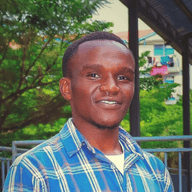
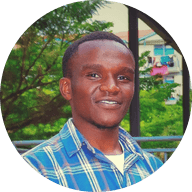
Refactor: Remove target _blank and rel noopener from links
Update: Generate circular favicons with alpha mask

diff --git a/client/src/components/navigation.tsx b/client/src/components/navigation.tsx
@@ -70,8 +70,6 @@ export default function Navigation() {
               ))}
               <motion.a
                 href="https://wa.me/254115594826?text=Hello%20Kennedy,%20I'm%20interested%20in%20discussing%20a%20potential%20project%20opportunity."
-                target="_blank"
-                rel="noopener noreferrer"
                 className="bg-gradient-to-r from-blue-600 to-cyan-500 text-white px-4 py-2 rounded-lg text-sm font-medium hover:from-blue-700 hover:to-cyan-600 transition-all duration-300 transform hover:scale-105 hover:shadow-lg hover:shadow-blue-500/30"
                 whileHover={{ scale: 1.05 }}
                 whileTap={{ scale: 0.95 }}
@@ -112,8 +110,6 @@ export default function Navigation() {
             ))}
             <motion.a
               href="https://wa.me/254115594826?text=Hello%20Kennedy,%20I'm%20interested%20in%20discussing%20a%20potential%20project%20opportunity."
-              target="_blank"
-              rel="noopener noreferrer"
               className="block px-3 py-2 rounded-md text-base font-medium bg-gradient-to-r from-blue-600 to-cyan-500 text-white hover:from-blue-700 hover:to-cyan-600 transition-all duration-300"
               whileHover={{ scale: 1.02 }}
               whileTap={{ scale: 0.98 }}

diff --git a/client/src/components/contact-section.tsx b/client/src/components/contact-section.tsx
@@ -27,8 +27,6 @@ export default function ContactSection() {
           <div className="flex flex-col sm:flex-row items-center justify-center gap-6 mb-12">
             <a
               href="https://wa.me/254115594826?text=Hello%20Kennedy,%20I'm%20interested%20in%20discussing%20a%20potential%20project%20opportunity."
-              target="_blank"
-              rel="noopener noreferrer"
               className="inline-flex items-center px-8 py-4 bg-gradient-to-r from-green-600 to-emerald-500 text-white font-medium rounded-xl hover:from-green-700 hover:to-emerald-600 transition-all duration-300 transform hover:scale-105 hover:shadow-lg text-lg"
             >
               <i className="fab fa-whatsapp mr-3 text-xl"></i>

diff --git a/client/src/components/projects-section.tsx b/client/src/components/projects-section.tsx
@@ -132,8 +132,6 @@ export default function ProjectsSection() {
             <div className="flex items-center justify-center">
               <motion.a
                 href="https://wa.me/254115594826?text=Hello%20Kennedy,%20I'm%20interested%20in%20discussing%20a%20potential%20project%20opportunity."
-                target="_blank"
-                rel="noopener noreferrer"
                 className="inline-flex items-center px-6 py-3 bg-transparent border border-green-500 text-green-400 font-medium rounded-full hover:bg-green-500/10 transition-all duration-300 transform hover:scale-105 hover:shadow-lg hover:shadow-green-500/20"
                 whileHover={{ scale: 1.05 }}
                 whileTap={{ scale: 0.95 }}

diff --git a/client/src/components/services-section.tsx b/client/src/components/services-section.tsx
@@ -109,8 +109,6 @@ export default function ServicesSection() {
             <div className="flex items-center justify-center">
               <motion.a
                 href="https://wa.me/254115594826?text=Hello%20Kennedy,%20I'm%20interested%20in%20discussing%20a%20potential%20project%20opportunity."
-                target="_blank"
-                rel="noopener noreferrer"
                 className="inline-flex items-center px-6 py-3 bg-transparent border border-green-500 text-green-400 font-medium rounded-full hover:bg-green-500/10 transition-all duration-300 transform hover:scale-105 hover:shadow-lg hover:shadow-green-500/20"
                 whileHover={{ scale: 1.05 }}
                 whileTap={{ scale: 0.95 }}

diff --git a/client/src/components/hero-section.tsx b/client/src/components/hero-section.tsx
@@ -162,8 +162,6 @@ export default function HeroSection() {
               
               <motion.a
                 href="https://wa.me/254115594826?text=Hello%20Kennedy,%20I'm%20interested%20in%20discussing%20a%20potential%20project%20opportunity."
-                target="_blank"
-                rel="noopener noreferrer"
                 className="inline-flex items-center px-6 py-3 bg-green-600 text-white font-medium rounded-full hover:bg-green-700 transition-all duration-300 transform hover:scale-105 hover:shadow-lg hover:shadow-green-600/30"
                 whileHover={{ scale: 1.05 }}
                 whileTap={{ scale: 0.95 }}
